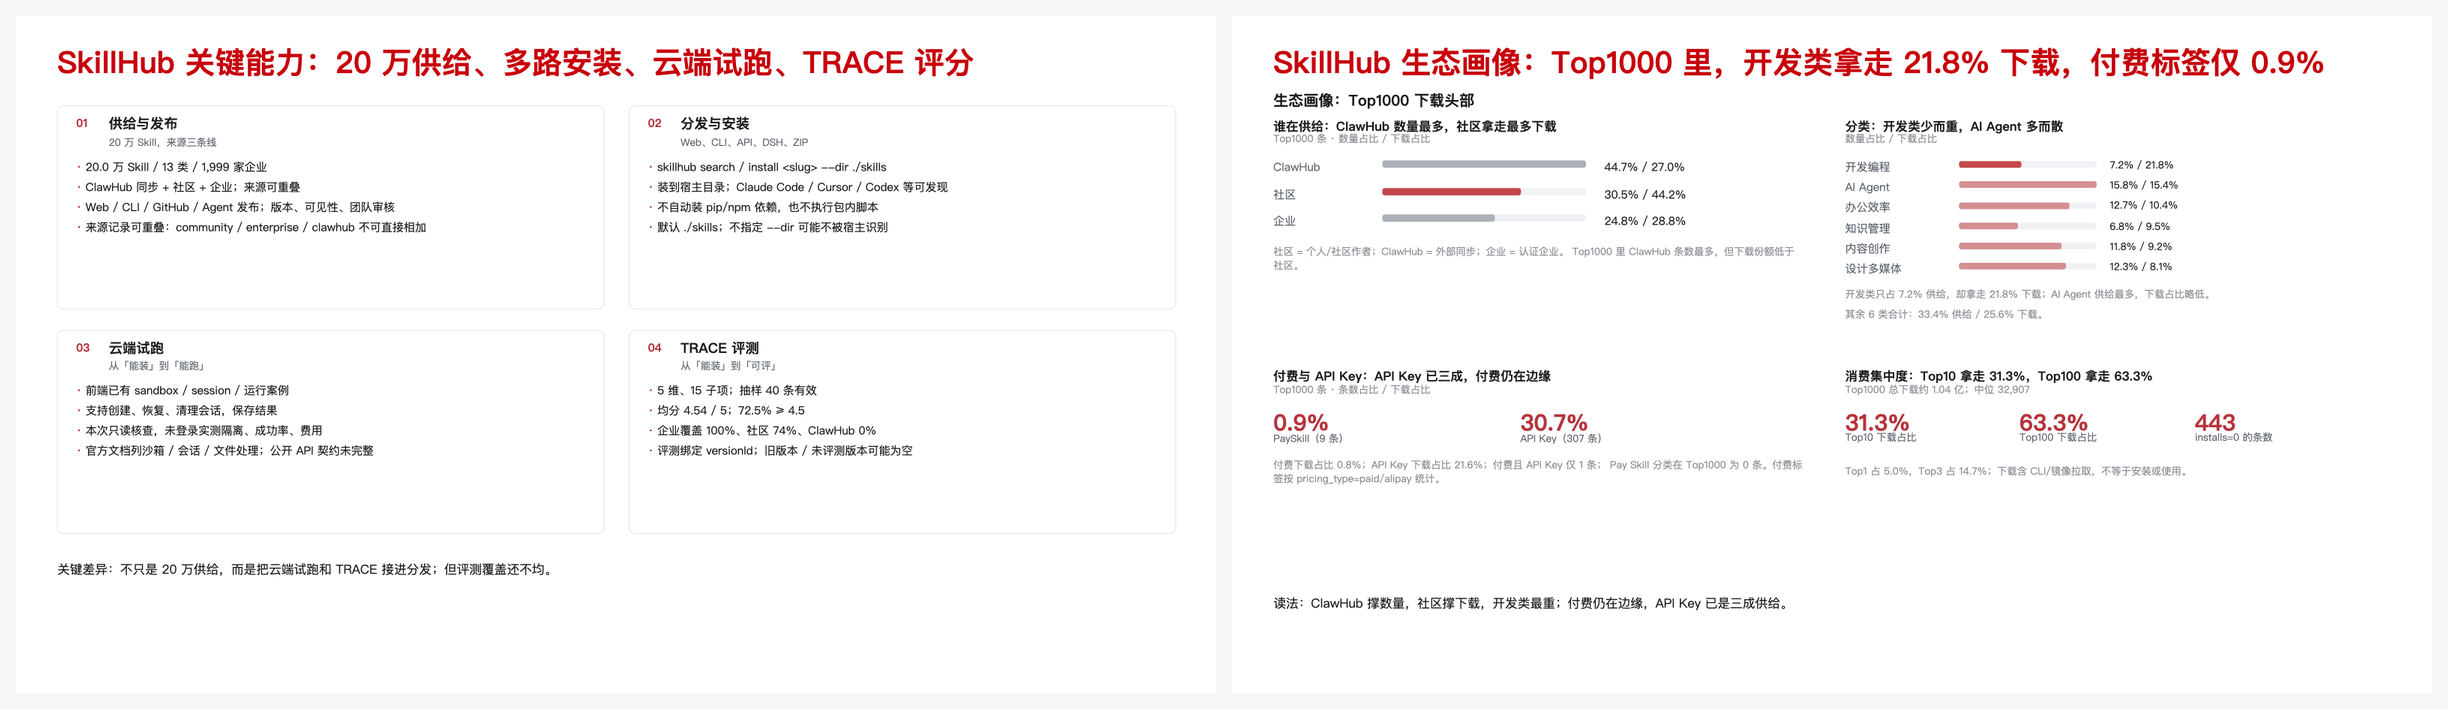
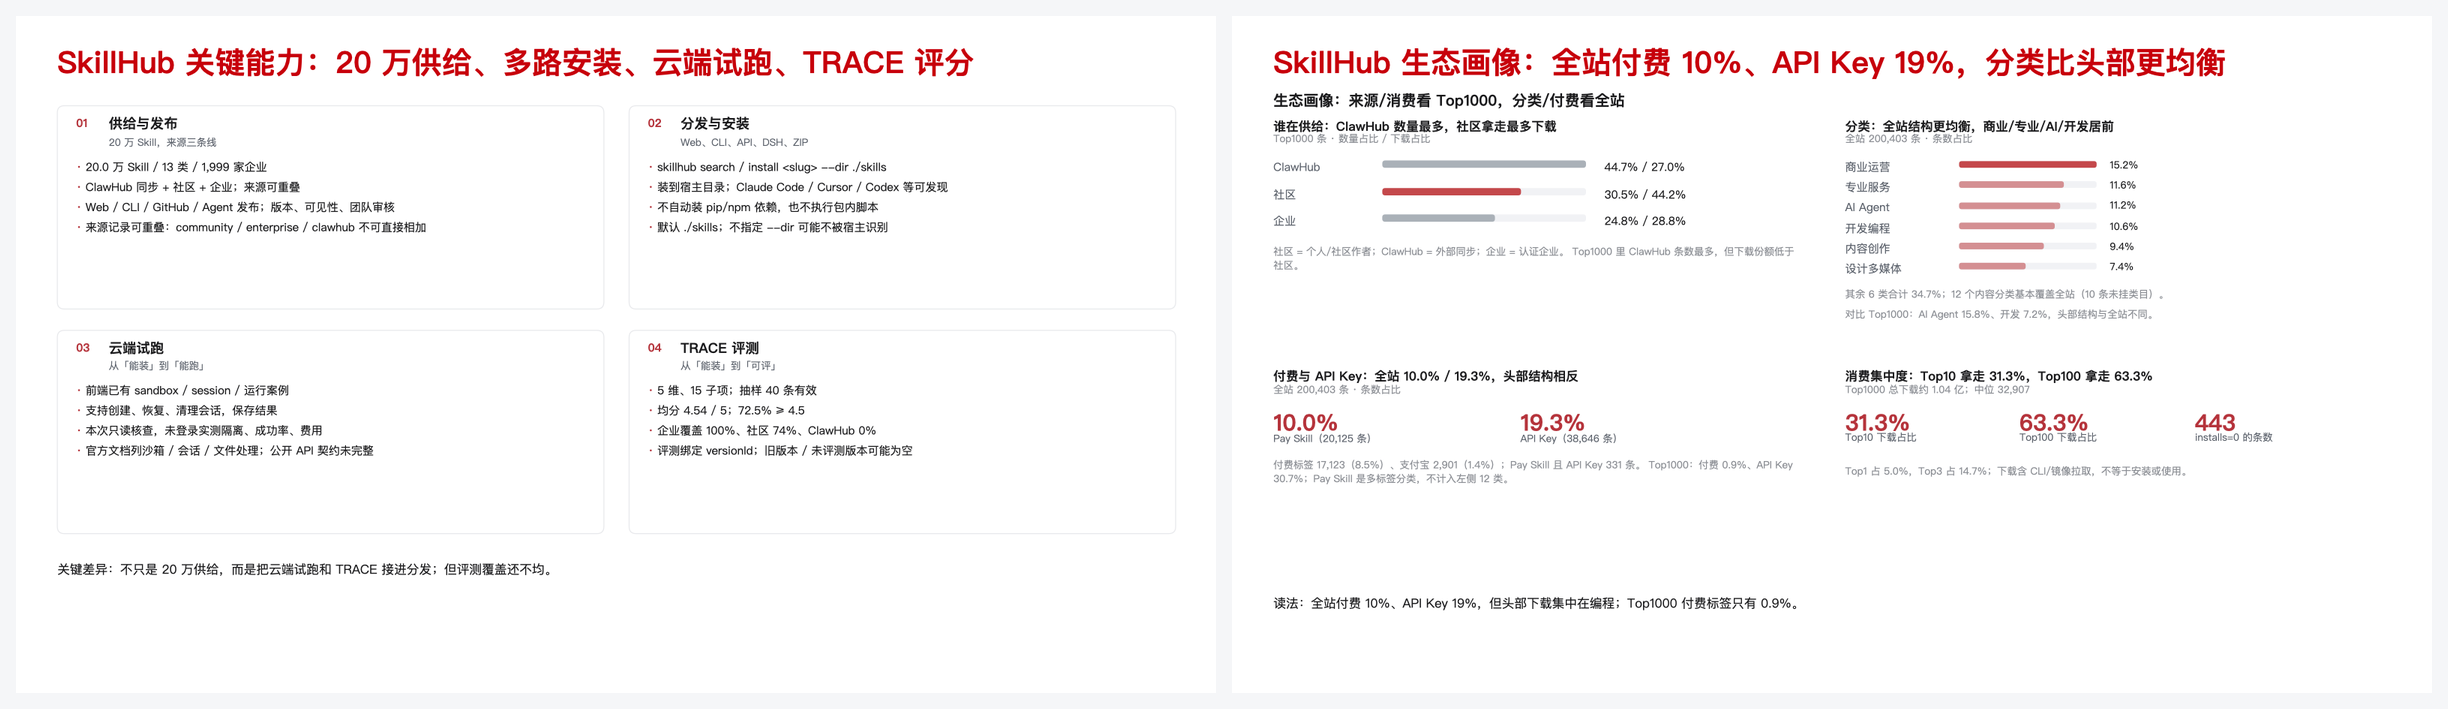
Use full-site data for category and paid analysis

diff --git a/rebuild_skillhub.py b/rebuild_skillhub.py
@@ -93,9 +93,9 @@ def build_capabilities(s, W, H):
 
 def build_ecosystem(s, W, H):
     add_text(s, 0.035 * W, 0.040 * H, 0.93 * W, 0.055 * H,
-             "SkillHub 生态画像：Top1000 里，开发类拿走 21.8% 下载，付费标签仅 0.9%",
+             "SkillHub 生态画像：全站付费 10%、API Key 19%，分类比头部更均衡",
              24, TITLE_RED, True)
-    add_text(s, 0.035 * W, 0.110 * H, 0.40 * W, 0.026 * H, "生态画像：Top1000 下载头部", 12, INK, True)
+    add_text(s, 0.035 * W, 0.110 * H, 0.40 * W, 0.026 * H, "生态画像：来源/消费看 Top1000，分类/付费看全站", 12, INK, True)
 
     # 01 supply sources
     add_text(s, 0.035 * W, 0.150 * H, 0.44 * W, 0.024 * H, "谁在供给：ClawHub 数量最多，社区拿走最多下载", 10.5, INK, True)
@@ -112,33 +112,33 @@ def build_ecosystem(s, W, H):
              "Top1000 里 ClawHub 条数最多，但下载份额低于社区。", 8.5, LIGHT_GRAY, False, spacing=1.15)
 
     # 02 category mix
-    add_text(s, 0.510 * W, 0.150 * H, 0.44 * W, 0.024 * H, "分类：开发类少而重，AI Agent 多而散", 10.5, INK, True)
-    add_text(s, 0.510 * W, 0.174 * H, 0.44 * W, 0.020 * H, "数量占比 / 下载占比", 8.5, LIGHT_GRAY, False)
+    add_text(s, 0.510 * W, 0.150 * H, 0.44 * W, 0.024 * H, "分类：全站结构更均衡，商业/专业/AI/开发居前", 10.5, INK, True)
+    add_text(s, 0.510 * W, 0.174 * H, 0.44 * W, 0.020 * H, "全站 200,403 条 · 条数占比", 8.5, LIGHT_GRAY, False)
     cats = [
-        ("开发编程", 7.2, 21.8), ("AI Agent", 15.8, 15.4), ("办公效率", 12.7, 10.4),
-        ("知识管理", 6.8, 9.5), ("内容创作", 11.8, 9.2), ("设计多媒体", 12.3, 8.1),
+        ("商业运营", 15.2), ("专业服务", 11.6), ("AI Agent", 11.2),
+        ("开发编程", 10.6), ("内容创作", 9.4), ("设计多媒体", 7.4),
     ]
-    for i, (name, count_pct, dl_pct) in enumerate(cats):
+    for i, (name, count_pct) in enumerate(cats):
         y = 0.212 * H + i * 0.030 * H
         add_text(s, 0.510 * W, y, 0.090 * W, 0.020 * H, name, 9, GRAY, False)
-        add_bar(s, 0.605 * W, y + 0.004 * H, 0.115 * W, 0.010 * H, count_pct / 15.8,
+        add_bar(s, 0.605 * W, y + 0.004 * H, 0.115 * W, 0.010 * H, count_pct / 15.2,
                 RED if i == 0 else RGBColor(0xC9, 0x7A, 0x80))
-        add_text(s, 0.730 * W, y, 0.110 * W, 0.020 * H, f"{count_pct}% / {dl_pct}%", 8.5, INK, False)
+        add_text(s, 0.730 * W, y, 0.060 * W, 0.020 * H, f"{count_pct}%", 8.5, INK, False)
     add_text(s, 0.510 * W, 0.405 * H, 0.44 * W, 0.022 * H,
-             "开发类只占 7.2% 供给，却拿走 21.8% 下载；AI Agent 供给最多，下载占比略低。", 8.5, LIGHT_GRAY, False, spacing=1.05)
+             "其余 6 类合计 34.7%；12 个内容分类基本覆盖全站（10 条未挂类目）。", 8.5, LIGHT_GRAY, False, spacing=1.05)
     add_text(s, 0.510 * W, 0.432 * H, 0.44 * W, 0.020 * H,
-             "其余 6 类合计：33.4% 供给 / 25.6% 下载。", 8.5, LIGHT_GRAY, False)
+             "对比 Top1000：AI Agent 15.8%、开发 7.2%，头部结构与全站不同。", 8.5, LIGHT_GRAY, False)
 
     # 03 paid + API key
-    add_text(s, 0.035 * W, 0.520 * H, 0.44 * W, 0.024 * H, "付费与 API Key：API Key 已三成，付费仍在边缘", 10.5, INK, True)
-    add_text(s, 0.035 * W, 0.544 * H, 0.44 * W, 0.020 * H, "Top1000 条 · 条数占比 / 下载占比", 8.5, LIGHT_GRAY, False)
-    add_text(s, 0.035 * W, 0.578 * H, 0.115 * W, 0.040 * H, "0.9%", 18, RED, True)
-    add_text(s, 0.035 * W, 0.615 * H, 0.150 * W, 0.020 * H, "PaySkill（9 条）", 8.5, GRAY, False)
-    add_text(s, 0.240 * W, 0.578 * H, 0.115 * W, 0.040 * H, "30.7%", 18, RED, True)
-    add_text(s, 0.240 * W, 0.615 * H, 0.150 * W, 0.020 * H, "API Key（307 条）", 8.5, GRAY, False)
-    add_text(s, 0.035 * W, 0.655 * H, 0.44 * W, 0.075 * H,
-             "付费下载占比 0.8%；API Key 下载占比 21.6%；付费且 API Key 仅 1 条；\n"
-             "Pay Skill 分类在 Top1000 为 0 条。付费标签按 pricing_type=paid/alipay 统计。",
+    add_text(s, 0.035 * W, 0.520 * H, 0.44 * W, 0.024 * H, "付费与 API Key：全站 10.0% / 19.3%，头部结构相反", 10.5, INK, True)
+    add_text(s, 0.035 * W, 0.544 * H, 0.44 * W, 0.020 * H, "全站 200,403 条 · 条数占比", 8.5, LIGHT_GRAY, False)
+    add_text(s, 0.035 * W, 0.578 * H, 0.115 * W, 0.040 * H, "10.0%", 18, RED, True)
+    add_text(s, 0.035 * W, 0.615 * H, 0.150 * W, 0.020 * H, "Pay Skill（20,125 条）", 8.5, GRAY, False)
+    add_text(s, 0.240 * W, 0.578 * H, 0.115 * W, 0.040 * H, "19.3%", 18, RED, True)
+    add_text(s, 0.240 * W, 0.615 * H, 0.150 * W, 0.020 * H, "API Key（38,646 条）", 8.5, GRAY, False)
+    add_text(s, 0.035 * W, 0.655 * H, 0.44 * W, 0.085 * H,
+             "付费标签 17,123（8.5%）、支付宝 2,901（1.4%）；Pay Skill 且 API Key 331 条。\n"
+             "Top1000：付费 0.9%、API Key 30.7%；Pay Skill 是多标签分类，不计入左侧 12 类。",
              8.5, LIGHT_GRAY, False, spacing=1.15)
 
     # 04 concentration
@@ -153,7 +153,7 @@ def build_ecosystem(s, W, H):
              "Top1 占 5.0%，Top3 占 14.7%；下载含 CLI/镜像拉取，不等于安装或使用。", 8.5, LIGHT_GRAY, False, spacing=1.1)
 
     add_text(s, 0.035 * W, 0.855 * H, 0.93 * W, 0.028 * H,
-             "读法：ClawHub 撑数量，社区撑下载，开发类最重；付费仍在边缘，API Key 已是三成供给。", 10, INK, False)
+             "读法：全站付费 10%、API Key 19%，但头部下载集中在编程；Top1000 付费标签只有 0.9%。", 10, INK, False)
 
 
 def main():

diff --git a/references/skillhub-two-page-research.md b/references/skillhub-two-page-research.md
@@ -65,33 +65,26 @@ SkillHub 的差异不只是“20 万 Skill”，而是把**供给、安装、云
 - 社区 = 个人/社区作者直接发布；企业 = 企业/组织账号；ClawHub = 外部同步/镜像。
 - 来源：[Top1000 API](https://api.skillhub.cn/api/skills?pageSize=100&sortBy=downloads&order=desc&page=1)。
 
-### 2. 分类占比
-| 分类 | 条数占比 | 下载占比 |
-|---|---:|---:|
-| 开发编程 | 7.2% | **21.8%** |
-| AI Agent | **15.8%** | 15.4% |
-| 办公效率 | 12.7% | 10.4% |
-| 知识管理 | 6.8% | 9.5% |
-| 内容创作 | 11.8% | 9.2% |
-| 设计多媒体 | 12.3% | 8.1% |
-| 其余 6 类 | 33.4% | 25.6% |
+### 2. 分类占比（全站，不用 Top1000）
+- 全站 **200,403 条**；12 个内容分类合计 200,393 条，另有 10 条未挂类目。
+- 条数占比：商业运营 **15.2%**、专业服务 **11.6%**、AI Agent **11.2%**、开发编程 **10.6%**、内容创作 **9.4%**、设计多媒体 **7.4%**；其余 6 类合计 **34.7%**。
+- 全站结构比 Top1000 更均衡：Top1000 里 AI Agent 15.8%、开发 7.2%，说明下载头部更偏 AI 与工具类，商业/专业服务在全站占比更高。
+- **Pay Skill 是多标签分类，20,125 条（10.0%），不计入上述 12 类**，否则会重复计数。
+- 分类 API：https://api.skillhub.cn/api/skills?pageSize=1&page=1&category=ai-agent（替换 category 取各分类 total）。
 
-- **开发类只占 7.2% 供给，却拿走 21.8% 下载**；AI Agent 供给最多（15.8%），下载占比 15.4%，略低于供给。
-- 12 个实际分类中 Pay Skill 在 Top1000 为 **0 条**（付费 Skill 下载量未进入头部）。
-- 分类口径来自每条 Skill 的 `category` 字段；下载为 `downloads` 字段汇总。
-
-### 3. PaySkill 与 API Key
-| 类型 | 条数 | 占比 | 下载占比 |
+### 3. PaySkill 与 API Key（全站，不用 Top1000）
+| 类型 | 条数 | 全站占比 | Top1000 对照 |
 |---|---:|---:|---:|
-| PaySkill（pricing_type=paid/alipay） | 9 | **0.9%** | 0.8% |
-| API Key（requires_api_key=true） | 307 | **30.7%** | 21.6% |
-| 付费且 API Key | 1 | 0.1% | 0.05% |
-| Pay Skill 分类 | 0 | 0% | 0% |
+| Pay Skill 分类 | 20,125 | **10.0%** | 0 条（0%） |
+| 付费标签 pricing_type=paid | 17,123 | 8.5% | 6 条（0.6%） |
+| 支付宝 pricing_type=alipay | 2,901 | 1.4% | 3 条（0.3%） |
+| API Key requires_api_key=true | 38,646 | **19.3%** | 307 条（30.7%） |
+| Pay Skill 且 API Key | 331 | 1.6%（占 Pay Skill） | 1 条 |
 
-- **付费在 Top1000 几乎不可见**：9 条、0.9%；大部分付费 Skill 不在下载头部。
-- **API Key 已是三成供给**：307 条、30.7%，但下载占比 21.6%，低于条数占比。
-- API Key 最集中在商业运营（73/96 = 76.0%），其次数据分析（36.6%）、设计多媒体（35.8%）、知识管理（33.8%）；AI Agent 仅 16.5%，开发编程 13.9%。
-- 付费标签按 `pricing_type=paid/alipay` 统计；Pay Skill 分类单独统计，二者不混用。
+- **全站付费 10.0%，但 Top1000 付费标签只有 0.9%**：付费供给大量存在，只是下载没进头部。
+- **全站 API Key 19.3%，Top1000 反而 30.7%**：API Key 类在头部被高估。
+- 付费标签（8.5%）与 Pay Skill 分类（10.0%）不是同一口径，不能混用；Pay Skill 分类还包含支付宝等标签。
+- API Key 最集中在商业运营（76.0%），其次数据分析 36.6%、设计多媒体 35.8%、知识管理 33.8%；AI Agent 仅 16.5%，开发编程 13.9%。
 
 ### 4. 头部 Skill
 - 编程大神 521.3 万、编程专家Pro 519.2 万、编程专家 487.6 万、搜索引擎 463.5 万、dev-expert 417.2 万。
@@ -101,7 +94,7 @@ SkillHub 的差异不只是“20 万 Skill”，而是把**供给、安装、云
 
 ## 数据口径与缺口
 - 总数会漂移：2026-10-19 为 199,516，2026-10-20 为 200,462；页面写“20.0 万”。
-- Top1000 是下载头部样本，不代表全量 20 万；来源/分类占比不能外推全站。
+- Top1000 是下载头部样本，不代表全量 20 万；来源与消费只看头部，分类与付费/API Key 用全站。
 - `pricing_type` 标签可能不完整：Top1000 只有 9 条付费标签，Pay Skill 分类 0 条；不能据此推断全站付费供给比例。
 - API Key 是 `labels.requires_api_key=true`，不代表一定收费或一定需要用户自备 Key。
 - TRACE 为 60 条抽样、去重 53、有效 40；覆盖率是样本口径，不是全站覆盖率。

diff --git a/skill-final-v1-manifest.md b/skill-final-v1-manifest.md
@@ -14,7 +14,7 @@
 - **Skill 资产生命周期页重做为第 1 页**：生产 / 分发 / 安装 / 使用四段，每段给出可执行动作、检查点与产物，并保留闭环回线；结合智果园示例（AI 资产广场上架分发、CodeArts Agent 安装使用）。原第 5 页删除，总页数 19。
 - **第一页按 `skill-lifecycle-summary.md` 的“关键动作”重新核对**：每段只把“动作”放入动作层，检查点与产物另列；生产段把“定任务 / 写方法 / 配资源并验证”拆开，边界放入“定任务”和检查点，样例与评测记录放入产物，不再把“留样例和边界”当作与前两步并列的第三个动作。动作层补入 `$skill-creator`、Git/ZIP、`npx skills add`、`/pdf-processing` 等可执行动作；`$skill-creator` 作为一条起稿路径，不写成唯一方式。
 - **最后两页按统一版式重排**：第 18 页先总结阿里/腾讯两条商业化路径（对比表 + 三点判断），第 19 页给出智果园的四条启示、首期路径与验收口径。
-- **SkillHub 从 3 页合并为 2 页**：第 3 页“关键能力”（供给与发布 / 分发安装 / 云端试跑 / TRACE）；第 4 页“Top1000 生态画像”（来源 / 分类 / PaySkill 与 API Key / 消费集中度）。Top1000 为 2026-10-20 下载降序样本，不等于全站。
+- **SkillHub 从 3 页合并为 2 页**：第 3 页“关键能力”（供给与发布 / 分发安装 / 云端试跑 / TRACE）；第 4 页“生态画像”：来源与消费用 Top1000，分类与 PaySkill/API Key 用全站；Top1000 为 2026-10-20 下载降序样本，不等于全站。
 - **魔搭合并为一页**：上半部分是“关键能力洞察”（发布 / 使用 / 试运行），下半部分是“生态画像”的 4 项对比：谁在供给 / 类目分布 / 消费集中度 / 谁被下载；30.9% 只在供给卡里出现，不再单独成块；删掉资产定位与结构、结论。
 - **标题已回退**：恢复上一版标题；第一页的动作 / 检查 / 产物内容保留。
 - 例外：KPI 数字保留展示字号；6.5–9.5 pt 的图注、单位、表注保留原字号，避免密集卡片溢出。若要求所有文字严格 10/12，需要重排或拆页。
@@ -26,7 +26,7 @@
 | 01 | 00 Skill 资产生命周期（开篇） | Skill 资产生命周期：生产 → 分发 → 安装 → 使用 | `skill-asset-lifecycle.pptx` 内容重做，结合智果园 / CodeArts Agent 示例 |
 | 02 | 01 魔搭平台调研 | 魔搭 Skill 关键能力：发布两步、安装四路，试运行和原创供给都还薄 | `modelscope-skills-center.pptx` 内容重做 + 一手 API/页面核查（1/1） |
 | 03 | 02 SkillHub 平台调研 | SkillHub 关键能力：20 万供给、多路安装、云端试跑、TRACE 评分 | `skillhub-insights-v1.pptx` + `skillhub-eval-onepage.pptx`（重做，1/2） |
-| 04 | 02 SkillHub 平台调研 | SkillHub 生态画像：Top1000 里，开发类拿走 21.8% 下载，付费标签仅 0.9% | `skillhub-insights.pptx` / `skillhub-insights-v1.pptx` + 公开 API Top1000 复算（重做，2/2） |
+| 04 | 02 SkillHub 平台调研 | SkillHub 生态画像：全站付费 10%、API Key 19%，分类比头部更均衡 | `skillhub-insights.pptx` / `skillhub-insights-v1.pptx` + 全站分类/付费与 Top1000 下载复算（重做，2/2） |
 | 05 | 03 Skill 平台总结 | 从魔搭、SkillHub 到智果园：Skill 资产平台的四个必答题 | `zhiguoyuan-skill-asset-onepage.pptx`（1/1） |
 | 06 | 04 腾讯 SkillPay 商业化 | SkillHub 已有按次收费供给，平台暂不收技术服务费 | `skillhub/output/skillhub-skillpay-commercialization-v1.pptx`（1/2） |
 | 07 | 04 腾讯 SkillPay 商业化 | 微信 SkillPay 将微信订单接入 Agent，商户验付后履约 | `skillhub/output/skillhub-skillpay-commercialization-v1.pptx`（2/2） |
